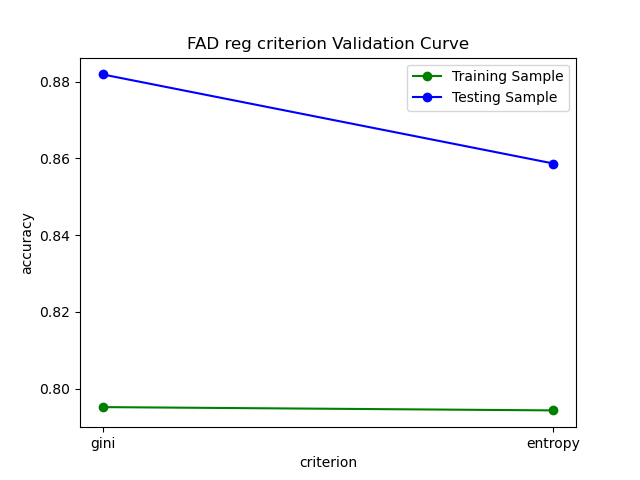
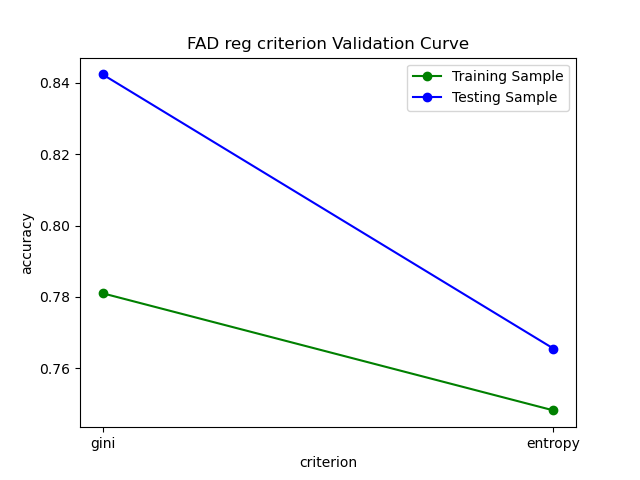
WIP

diff --git a/supervised_learning/clean.py b/supervised_learning/clean.py
@@ -68,6 +68,56 @@ def get_data_OSI():
     X_test = scaler.transform(X_test)
     return X_train, y_train, X_test, y_test
 
+def munge_ford_data(trainx, trainy, testx, testy):
+    """ This function is used to pre-processed the Ford data set in order
+    to reduce the feature space and improve run time.
+    """
+
+    # Search for highly correlated things
+    # c = trainx.corr().abs()
+    # s = c.unstack()
+    # so = s.order(kind="quicksort", na_last=False)[::-1]
+
+    # Drop P4, V6, V10, E9, E2, E9, V8 b/c they are highly correlated (>0.5)
+    trainx = trainx.drop(['P4', 'V6', 'V10', 'E9', 'E2'], axis=1)
+    testx = testx.drop(['P4', 'V6', 'V10', 'E9', 'E2'], axis=1)
+
+    # Drop P8, V7, V9 because their values are all 0
+    trainx = trainx.drop(['P8', 'V7', 'V9'],axis=1)
+    testx = testx.drop(['P8', 'V7', 'V9'], axis=1)
+
+    # Lump together all buckets greater than 4 in E7 and E8
+    trainx.loc[trainx.E7 > 4, 'E7'] = 4
+    trainx.loc[trainx.E8 > 4, 'E8'] = 4
+    testx.loc[testx.E7 > 4, 'E7'] = 4
+    testx.loc[testx.E8 > 4, 'E8'] = 4
+
+    # Check columns for NaN , i.e. missing values
+    # has_nan = pandas.isnull(trainx).any(0).nonzero()
+
+    # Scale zero mean and unit variance for numerical/continous data
+    # Exclude categorical variables E3,E7, E8, V5
+    numerical_features = [x for x in trainx.columns if x not in
+                          ['E3', 'E7', 'E8', 'V5']]
+    scaler = preprocessing.StandardScaler().fit(
+        trainx.loc[:, numerical_features])
+    trainx.loc[:, numerical_features] = scaler.transform(
+        trainx.loc[:, numerical_features])
+    testx.loc[:, numerical_features] = scaler.transform(
+        testx.loc[:, numerical_features])
+
+    # # Optionally sub-sample the train data
+    # rows = random.sample(trainx.index, 600000)
+    # trainx = trainx.iloc[rows, ]
+    # trainy = trainy.iloc[rows, ]
+    #
+    # # Optionally sub-sample test data
+    # rows = random.sample(testx.index, 120000)
+    # testx = testx.iloc[rows, ]
+    # testy = testy.iloc[rows, ]
+
+    return trainx, trainy, testx, testy
+
 def get_data_ford(dataset_sample, num_features):
     df_train = pd.read_csv(dataroot + 'fordTrain.csv')
     df_test = pd.read_csv(dataroot + 'fordTest.csv')
@@ -79,19 +129,23 @@ def get_data_ford(dataset_sample, num_features):
         X_train = df_train.drop(['IsAlert', 'TrialID', 'ObsNum'], axis=1)
         X_test = df_test.drop(['IsAlert', 'TrialID', 'ObsNum'], axis=1)
 
-    else:
+    elif num_features == 'small':
         #Best Feature Selection
         print("Selecting SFS Forward features")
         X_train = df_train[['P6', 'E9', 'V10']]
         X_test = df_test[['P6', 'E9', 'V10']]
+    elif num_features == 'munge':
+        print("Munging ford data")
+        X_train, y_train, X_test, y_test = munge_ford_data(df_train.drop(['IsAlert', 'TrialID', 'ObsNum'], axis=1), y_train,df_test.drop(['IsAlert', 'TrialID', 'ObsNum'], axis=1),y_test)
+
     if dataset_sample != 0:
         print("Sampling the training set at: "+str(dataset_sample))
         X_train, X_test_new, y_train, y_test_new = train_test_split(X_train, y_train, train_size=dataset_sample,
                                                             random_state=RANDOM_STATE)
-    scaler = StandardScaler()
-    scaler.fit(X_train)
-    X_train = scaler.transform(X_train)
-    X_test = scaler.transform(X_test)
+    # scaler = StandardScaler()
+    # scaler.fit(X_train)
+    # X_train = scaler.transform(X_train)
+    # X_test = scaler.transform(X_test)
     return X_train, y_train, X_test, y_test
 
 def plot_learning_curve(is_iterative, model,title,X_train,y_train,cv, filename,scoring):
@@ -186,7 +240,7 @@ def initialize_a_param(clf, param, X_train, y_train, cv, clf_type, scoring, is_s
         param_grid=param,
         cv=cv,
         scoring=scoring,
-        n_jobs=-1)
+        n_jobs=-2)
     clf.fit(X=X_train, y=y_train)
     initial_value = clf.best_params_[param_name]
     print('Initial value for '+param_name+' = '+str(initial_value))
@@ -434,7 +488,7 @@ def run_shoppers(dataroot):
 #TODO: See if the distribution of trues to falses is the same between training and testing
 def run_ford(dataroot):
     training_sample = 0.3
-    num_features = 'full'
+    num_features = 'munge'
     X_train, y_train, X_test, y_test = get_data_ford(training_sample, num_features)
     scoring = 'accuracy'
     cross_val_folds = 10

diff --git a/supervised_learning/README.md b/supervised_learning/README.md
@@ -2,8 +2,8 @@ conda env create --file environment.yml
 conda activate cs7641
 either python main.py shoppers or
 /Users/plamb/opt/miniconda3/envs/cs7641/bin/python main.py shoppers
-
-
+cd Documents/Personal/Academic/Georgia\ Tech/Classes/ML/hw/supervised_learning/
+/Users/plamb/opt/miniconda3/envs/cs7641/bin/python clean.py ford
 Had to use columntransformer to get numerical values for my string columns
 note that if using columntransformer, i cant inverse transform and get my strings back
 
